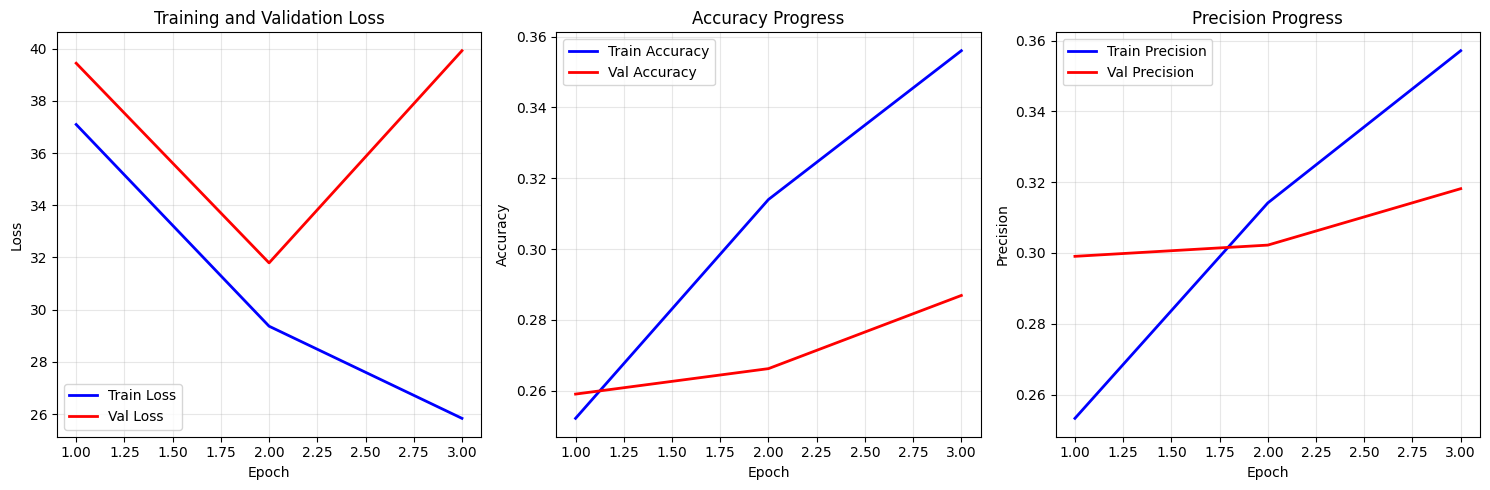
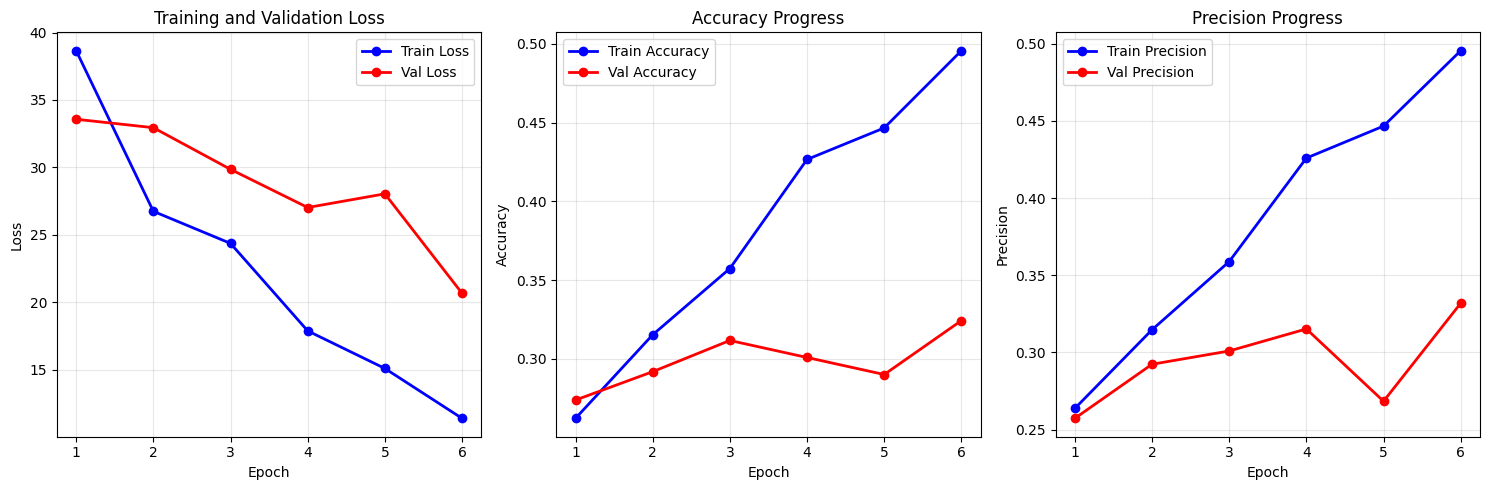
feature: add more choice of training parameters to user

diff --git a/ml/static/train.html b/ml/static/train.html
@@ -113,6 +113,20 @@
             border-color: #667eea;
         }
 
+        input[type="number"] {
+            width: 100%;
+            padding: 12px;
+            border: 2px solid #e0e0e0;
+            border-radius: 8px;
+            font-size: 1em;
+            transition: border-color 0.3s;
+        }
+
+        input[type="number"]:focus {
+            outline: none;
+            border-color: #667eea;
+        }
+
         .submit-btn {
             width: 100%;
             padding: 15px;
@@ -288,6 +302,7 @@
                             <option value="ResNet34">ResNet34</option>
                             <option value="ResNet50">ResNet50</option>
                             <option value="VGG11">VGG11</option>
+                            <option value="MobileNetV2">MobileNetV2</option>
                             <option value="EfficientNetB0">EfficientNetB0</option>
                         </select>
                     </div>
@@ -349,6 +364,41 @@
                             <div class="checkbox-item">
                                 <input type="checkbox" id="metric-roc" name="metrics" value="roc_auc">
                                 <label for="metric-roc">ROC AUC</label>
+                            </div>
+                        </div>
+                    </div>
+
+                    <!-- Training Parameters -->
+                    <div class="form-group">
+                        <label for="epochs">Number of Epochs</label>
+                        <input type="number" id="epochs" name="epochs" min="1" max="100" value="10" required>
+                    </div>
+
+                    <div class="form-group">
+                        <label for="learning-rate">Learning Rate</label>
+                        <input type="number" id="learning-rate" name="learning_rate" min="0.0001" max="1" step="0.0001" value="0.001" required>
+                    </div>
+
+                    <div class="form-group">
+                        <label for="batch-size">Batch Size</label>
+                        <input type="number" id="batch-size" name="batch_size" min="1" max="256" value="32" required>
+                    </div>
+
+                    <!-- Data Split -->
+                    <div class="form-group">
+                        <label>Train/Validation/Test Split</label>
+                        <div style="display: grid; grid-template-columns: repeat(3, 1fr); gap: 15px;">
+                            <div>
+                                <label for="train-split" style="font-size: 0.9em; font-weight: normal;">Train</label>
+                                <input type="number" id="train-split" name="train_split" min="0" max="1" step="0.05" value="0.8" required>
+                            </div>
+                            <div>
+                                <label for="val-split" style="font-size: 0.9em; font-weight: normal;">Validation</label>
+                                <input type="number" id="val-split" name="val_split" min="0" max="1" step="0.05" value="0.1" required>
+                            </div>
+                            <div>
+                                <label for="test-split" style="font-size: 0.9em; font-weight: normal;">Test</label>
+                                <input type="number" id="test-split" name="test_split" min="0" max="1" step="0.05" value="0.1" required>
                             </div>
                         </div>
                     </div>
@@ -423,13 +473,30 @@
                 return;
             }
 
+            // Validate splits sum to 1.0
+            const trainSplit = parseFloat(document.getElementById('train-split').value);
+            const valSplit = parseFloat(document.getElementById('val-split').value);
+            const testSplit = parseFloat(document.getElementById('test-split').value);
+            const splitSum = trainSplit + valSplit + testSplit;
+            
+            if (Math.abs(splitSum - 1.0) > 0.01) {
+                showMessage('Train, Validation, and Test splits must sum to 1.0', 'error');
+                return;
+            }
+
             const config = {
                 datasets: datasets,
                 model: document.getElementById('model-arch').value,
                 optimizer: document.getElementById('optimizer').value,
                 scheduler: document.getElementById('scheduler').value,
                 criterion: document.getElementById('criterion').value,
-                metrics: metrics
+                metrics: metrics,
+                epochs: parseInt(document.getElementById('epochs').value),
+                learning_rate: parseFloat(document.getElementById('learning-rate').value),
+                batch_size: parseInt(document.getElementById('batch-size').value),
+                train_split: parseFloat(document.getElementById('train-split').value),
+                val_split: parseFloat(document.getElementById('val-split').value),
+                test_split: parseFloat(document.getElementById('test-split').value)
             };
 
             // Disable form

diff --git a/ml/server.py b/ml/server.py
@@ -181,9 +181,9 @@ def generate_plot():
         # Plot loss
         ax_loss = axes[0] if num_plots > 1 else axes
         epochs = range(1, len(training_manager.train_losses) + 1)
-        ax_loss.plot(epochs, training_manager.train_losses, 'b-', label='Train Loss', linewidth=2)
+        ax_loss.plot(epochs, training_manager.train_losses, 'b-o', label='Train Loss', linewidth=2, markersize=6)
         if training_manager.val_losses:
-            ax_loss.plot(epochs, training_manager.val_losses, 'r-', label='Val Loss', linewidth=2)
+            ax_loss.plot(epochs, training_manager.val_losses, 'r-o', label='Val Loss', linewidth=2, markersize=6)
         ax_loss.set_xlabel('Epoch')
         ax_loss.set_ylabel('Loss')
         ax_loss.set_title('Training and Validation Loss')
@@ -194,11 +194,11 @@ def generate_plot():
         if num_plots > 1 and training_manager.train_metrics:
             metric_name = list(training_manager.train_metrics.keys())[0]
             ax_metric = axes[1]
-            ax_metric.plot(epochs, training_manager.train_metrics[metric_name], 'b-', 
-                          label=f'Train {metric_name.title()}', linewidth=2)
+            ax_metric.plot(epochs, training_manager.train_metrics[metric_name], 'b-o', 
+                          label=f'Train {metric_name.title()}', linewidth=2, markersize=6)
             if metric_name in training_manager.val_metrics:
-                ax_metric.plot(epochs, training_manager.val_metrics[metric_name], 'r-',
-                             label=f'Val {metric_name.title()}', linewidth=2)
+                ax_metric.plot(epochs, training_manager.val_metrics[metric_name], 'r-o',
+                             label=f'Val {metric_name.title()}', linewidth=2, markersize=6)
             ax_metric.set_xlabel('Epoch')
             ax_metric.set_ylabel(metric_name.title())
             ax_metric.set_title(f'{metric_name.title()} Progress')
@@ -209,11 +209,11 @@ def generate_plot():
         if num_plots > 2 and len(training_manager.train_metrics) > 1:
             metric_name = list(training_manager.train_metrics.keys())[1]
             ax_metric2 = axes[2]
-            ax_metric2.plot(epochs, training_manager.train_metrics[metric_name], 'b-',
-                           label=f'Train {metric_name.title()}', linewidth=2)
+            ax_metric2.plot(epochs, training_manager.train_metrics[metric_name], 'b-o',
+                           label=f'Train {metric_name.title()}', linewidth=2, markersize=6)
             if metric_name in training_manager.val_metrics:
-                ax_metric2.plot(epochs, training_manager.val_metrics[metric_name], 'r-',
-                              label=f'Val {metric_name.title()}', linewidth=2)
+                ax_metric2.plot(epochs, training_manager.val_metrics[metric_name], 'r-o',
+                              label=f'Val {metric_name.title()}', linewidth=2, markersize=6)
             ax_metric2.set_xlabel('Epoch')
             ax_metric2.set_ylabel(metric_name.title())
             ax_metric2.set_title(f'{metric_name.title()} Progress')
@@ -231,7 +231,12 @@ def train_model(config):
         training_manager.status_message = "Initializing..."
         
         # Set device
-        device = torch.device("cuda" if torch.cuda.is_available() else "cpu")
+        if torch.cuda.is_available():
+            device = torch.device("cuda")
+        elif torch.backends.mps.is_available():
+            device = torch.device("mps")
+        else:
+            device = torch.device("cpu")
         print(f"Using device: {device}")
         
         # Data transforms
@@ -245,6 +250,12 @@ def train_model(config):
         training_manager.status_message = "Loading datasets..."
         train_datasets = []
         val_datasets = []
+        test_datasets = []
+        
+        # Get split ratios from config
+        train_split = config.get("train_split", 0.8)
+        val_split = config.get("val_split", 0.1)
+        test_split = config.get("test_split", 0.1)
         
         for dataset_name in config["datasets"]:
             dataset_cls = get_dataset_class(dataset_name)
@@ -253,23 +264,34 @@ def train_model(config):
                     # Check if dataset supports split parameter
                     if dataset_name == "FER-2013":
                         train_ds = dataset_cls(root_dir=dataset_name, split='train', transform=transform)
-                        val_ds = dataset_cls(root_dir=dataset_name, split='test', transform=transform)
+                        # For FER-2013, split test set into val and test
+                        test_full = dataset_cls(root_dir=dataset_name, split='test', transform=transform)
+                        val_size = int(len(test_full) * (val_split / (val_split + test_split)))
+                        test_size = len(test_full) - val_size
+                        val_ds, test_ds = torch.utils.data.random_split(
+                            test_full,
+                            [val_size, test_size],
+                            generator=torch.Generator().manual_seed(42)
+                        )
                     else:
                         # For datasets without splits, use full dataset and split manually
                         full_ds = dataset_cls(root_dir=dataset_name, transform=transform)
                         
-                        # Split 80/20 train/val
-                        train_size = int(0.8 * len(full_ds))
-                        val_size = len(full_ds) - train_size
-                        train_ds, val_ds = torch.utils.data.random_split(
+                        # Split according to config ratios
+                        train_size = int(train_split * len(full_ds))
+                        val_size = int(val_split * len(full_ds))
+                        test_size = len(full_ds) - train_size - val_size
+                        
+                        train_ds, val_ds, test_ds = torch.utils.data.random_split(
                             full_ds, 
-                            [train_size, val_size],
+                            [train_size, val_size, test_size],
                             generator=torch.Generator().manual_seed(42)
                         )
                     
                     train_datasets.append(train_ds)
                     val_datasets.append(val_ds)
-                    print(f"Loaded {dataset_name}: {len(train_ds)} train, {len(val_ds)} val")
+                    test_datasets.append(test_ds)
+                    print(f"Loaded {dataset_name}: {len(train_ds)} train, {len(val_ds)} val, {len(test_ds)} test")
                     
                 except Exception as e:
                     print(f"Error loading {dataset_name}: {e}")
@@ -284,10 +306,15 @@ def train_model(config):
         # Combine datasets
         train_dataset = ConcatDataset(train_datasets) if len(train_datasets) > 1 else train_datasets[0]
         val_dataset = ConcatDataset(val_datasets) if len(val_datasets) > 1 else val_datasets[0]
+        test_dataset = ConcatDataset(test_datasets) if len(test_datasets) > 1 else test_datasets[0]
+        
+        # Get batch size from config
+        batch_size = config.get("batch_size", 32)
         
         # Data loaders
-        train_loader = DataLoader(train_dataset, batch_size=32, shuffle=True, num_workers=2)
-        val_loader = DataLoader(val_dataset, batch_size=32, shuffle=False, num_workers=2)
+        train_loader = DataLoader(train_dataset, batch_size=batch_size, shuffle=True, num_workers=2)
+        val_loader = DataLoader(val_dataset, batch_size=batch_size, shuffle=False, num_workers=2)
+        test_loader = DataLoader(test_dataset, batch_size=batch_size, shuffle=False, num_workers=2)
         
         # Initialize model
         training_manager.status_message = "Initializing model..."
@@ -299,13 +326,16 @@ def train_model(config):
         
         model = model_cls().to(device)
         
+        # Get learning rate and epochs from config
+        learning_rate = config.get("learning_rate", 0.001)
+        num_epochs = config.get("epochs", 10)
+        
         # Optimizer, scheduler, criterion
-        optimizer = get_optimizer(config["optimizer"], model.parameters())
-        scheduler = get_scheduler(config["scheduler"], optimizer)
+        optimizer = get_optimizer(config["optimizer"], model.parameters(), lr=learning_rate)
+        scheduler = get_scheduler(config["scheduler"], optimizer, num_epochs=num_epochs)
         criterion = get_criterion(config["criterion"])
         
         # Training loop
-        num_epochs = 10  # Default
         training_manager.total_epochs = num_epochs
         
         for epoch in range(num_epochs):
